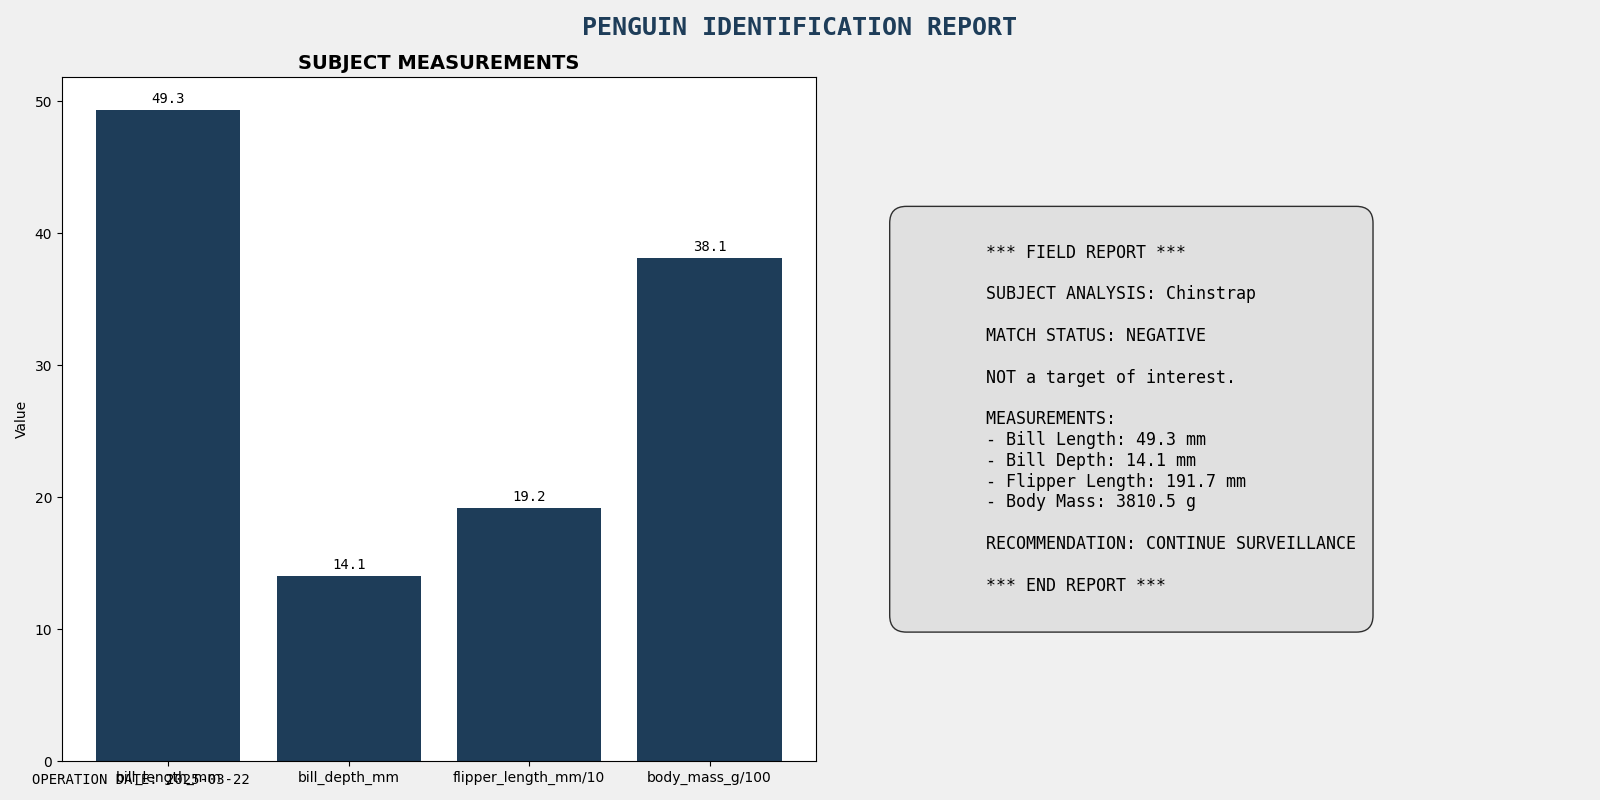
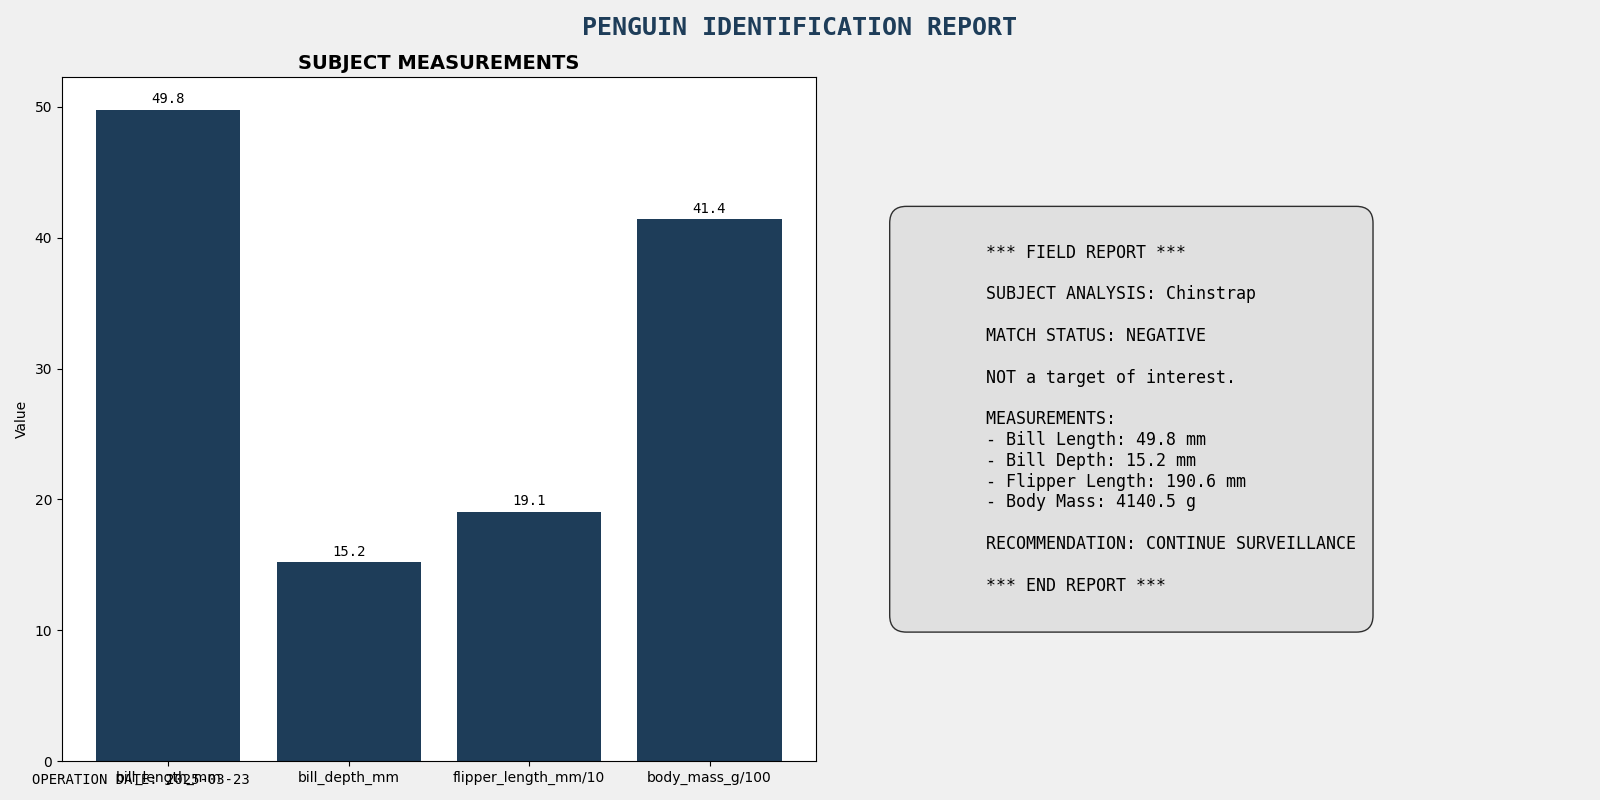
Update penguin prediction for 2025-03-23

diff --git a/data/predictions/index.html b/data/predictions/index.html
@@ -82,7 +82,7 @@
         </div>
         
         <div class="prediction">
-            <p>Latest Prediction (Date: 2025-03-22): 
+            <p>Latest Prediction (Date: 2025-03-23): 
                 <span class="other">Chinstrap</span>
             </p>
             <p>Not one of the Penguins of Madagascar</p>
@@ -95,17 +95,17 @@
         <div class="penguin-data">
             <h3>Penguin Measurements:</h3>
             <ul>
-                <li><strong>Bill Length:</strong> 49.33020966619616 mm</li>
-                <li><strong>Bill Depth:</strong> 14.06111678034523 mm</li>
-                <li><strong>Flipper Length:</strong> 191.71609291680966 mm</li>
-                <li><strong>Body Mass:</strong> 3810.510584004772 g</li>
+                <li><strong>Bill Length:</strong> 49.768358009041414 mm</li>
+                <li><strong>Bill Depth:</strong> 15.207950439917802 mm</li>
+                <li><strong>Flipper Length:</strong> 190.64758565247874 mm</li>
+                <li><strong>Body Mass:</strong> 4140.519429191219 g</li>
             </ul>
         </div>
         
         <div class="stats">
             <h3>Statistics</h3>
-            <p>Total penguins detected: 9</p>
-            <p>Adelie penguins detected: 6 (66.7% of total)</p>
+            <p>Total penguins detected: 10</p>
+            <p>Adelie penguins detected: 6 (60.0% of total)</p>
             <p>Model used: RandomForest</p>
         </div>
         
@@ -117,7 +117,7 @@
                     <th>Species</th>
                     <th>Adelie?</th>
                 </tr>
-                <tr><td>2025-03-19</td><td>Adelie</td><td>Yes</td></tr><tr><td>2025-03-19</td><td>Adelie</td><td>Yes</td></tr><tr><td>2025-03-19</td><td>Adelie</td><td>Yes</td></tr><tr><td>2025-03-19</td><td>Adelie</td><td>Yes</td></tr><tr><td>2025-03-19</td><td>Adelie</td><td>Yes</td></tr><tr><td>2025-03-20</td><td>Adelie</td><td>Yes</td></tr><tr><td>2025-03-21</td><td>Chinstrap</td><td>No</td></tr><tr><td>2025-03-21</td><td>Chinstrap</td><td>No</td></tr><tr><td>2025-03-22</td><td>Chinstrap</td><td>No</td></tr>
+                <tr><td>2025-03-19</td><td>Adelie</td><td>Yes</td></tr><tr><td>2025-03-19</td><td>Adelie</td><td>Yes</td></tr><tr><td>2025-03-19</td><td>Adelie</td><td>Yes</td></tr><tr><td>2025-03-19</td><td>Adelie</td><td>Yes</td></tr><tr><td>2025-03-19</td><td>Adelie</td><td>Yes</td></tr><tr><td>2025-03-20</td><td>Adelie</td><td>Yes</td></tr><tr><td>2025-03-21</td><td>Chinstrap</td><td>No</td></tr><tr><td>2025-03-21</td><td>Chinstrap</td><td>No</td></tr><tr><td>2025-03-22</td><td>Chinstrap</td><td>No</td></tr><tr><td>2025-03-23</td><td>Chinstrap</td><td>No</td></tr>
             </table>
         </div>
     </div>

diff --git a/index.html b/index.html
@@ -82,7 +82,7 @@
         </div>
         
         <div class="prediction">
-            <p>Latest Prediction (Date: 2025-03-22): 
+            <p>Latest Prediction (Date: 2025-03-23): 
                 <span class="other">Chinstrap</span>
             </p>
             <p>Not one of the Penguins of Madagascar</p>
@@ -95,17 +95,17 @@
         <div class="penguin-data">
             <h3>Penguin Measurements:</h3>
             <ul>
-                <li><strong>Bill Length:</strong> 49.33020966619616 mm</li>
-                <li><strong>Bill Depth:</strong> 14.06111678034523 mm</li>
-                <li><strong>Flipper Length:</strong> 191.71609291680966 mm</li>
-                <li><strong>Body Mass:</strong> 3810.510584004772 g</li>
+                <li><strong>Bill Length:</strong> 49.768358009041414 mm</li>
+                <li><strong>Bill Depth:</strong> 15.207950439917802 mm</li>
+                <li><strong>Flipper Length:</strong> 190.64758565247874 mm</li>
+                <li><strong>Body Mass:</strong> 4140.519429191219 g</li>
             </ul>
         </div>
         
         <div class="stats">
             <h3>Statistics</h3>
-            <p>Total penguins detected: 9</p>
-            <p>Adelie penguins detected: 6 (66.7% of total)</p>
+            <p>Total penguins detected: 10</p>
+            <p>Adelie penguins detected: 6 (60.0% of total)</p>
             <p>Model used: RandomForest</p>
         </div>
         
@@ -117,7 +117,7 @@
                     <th>Species</th>
                     <th>Adelie?</th>
                 </tr>
-                <tr><td>2025-03-19</td><td>Adelie</td><td>Yes</td></tr><tr><td>2025-03-19</td><td>Adelie</td><td>Yes</td></tr><tr><td>2025-03-19</td><td>Adelie</td><td>Yes</td></tr><tr><td>2025-03-19</td><td>Adelie</td><td>Yes</td></tr><tr><td>2025-03-19</td><td>Adelie</td><td>Yes</td></tr><tr><td>2025-03-20</td><td>Adelie</td><td>Yes</td></tr><tr><td>2025-03-21</td><td>Chinstrap</td><td>No</td></tr><tr><td>2025-03-21</td><td>Chinstrap</td><td>No</td></tr><tr><td>2025-03-22</td><td>Chinstrap</td><td>No</td></tr>
+                <tr><td>2025-03-19</td><td>Adelie</td><td>Yes</td></tr><tr><td>2025-03-19</td><td>Adelie</td><td>Yes</td></tr><tr><td>2025-03-19</td><td>Adelie</td><td>Yes</td></tr><tr><td>2025-03-19</td><td>Adelie</td><td>Yes</td></tr><tr><td>2025-03-19</td><td>Adelie</td><td>Yes</td></tr><tr><td>2025-03-20</td><td>Adelie</td><td>Yes</td></tr><tr><td>2025-03-21</td><td>Chinstrap</td><td>No</td></tr><tr><td>2025-03-21</td><td>Chinstrap</td><td>No</td></tr><tr><td>2025-03-22</td><td>Chinstrap</td><td>No</td></tr><tr><td>2025-03-23</td><td>Chinstrap</td><td>No</td></tr>
             </table>
         </div>
     </div>
